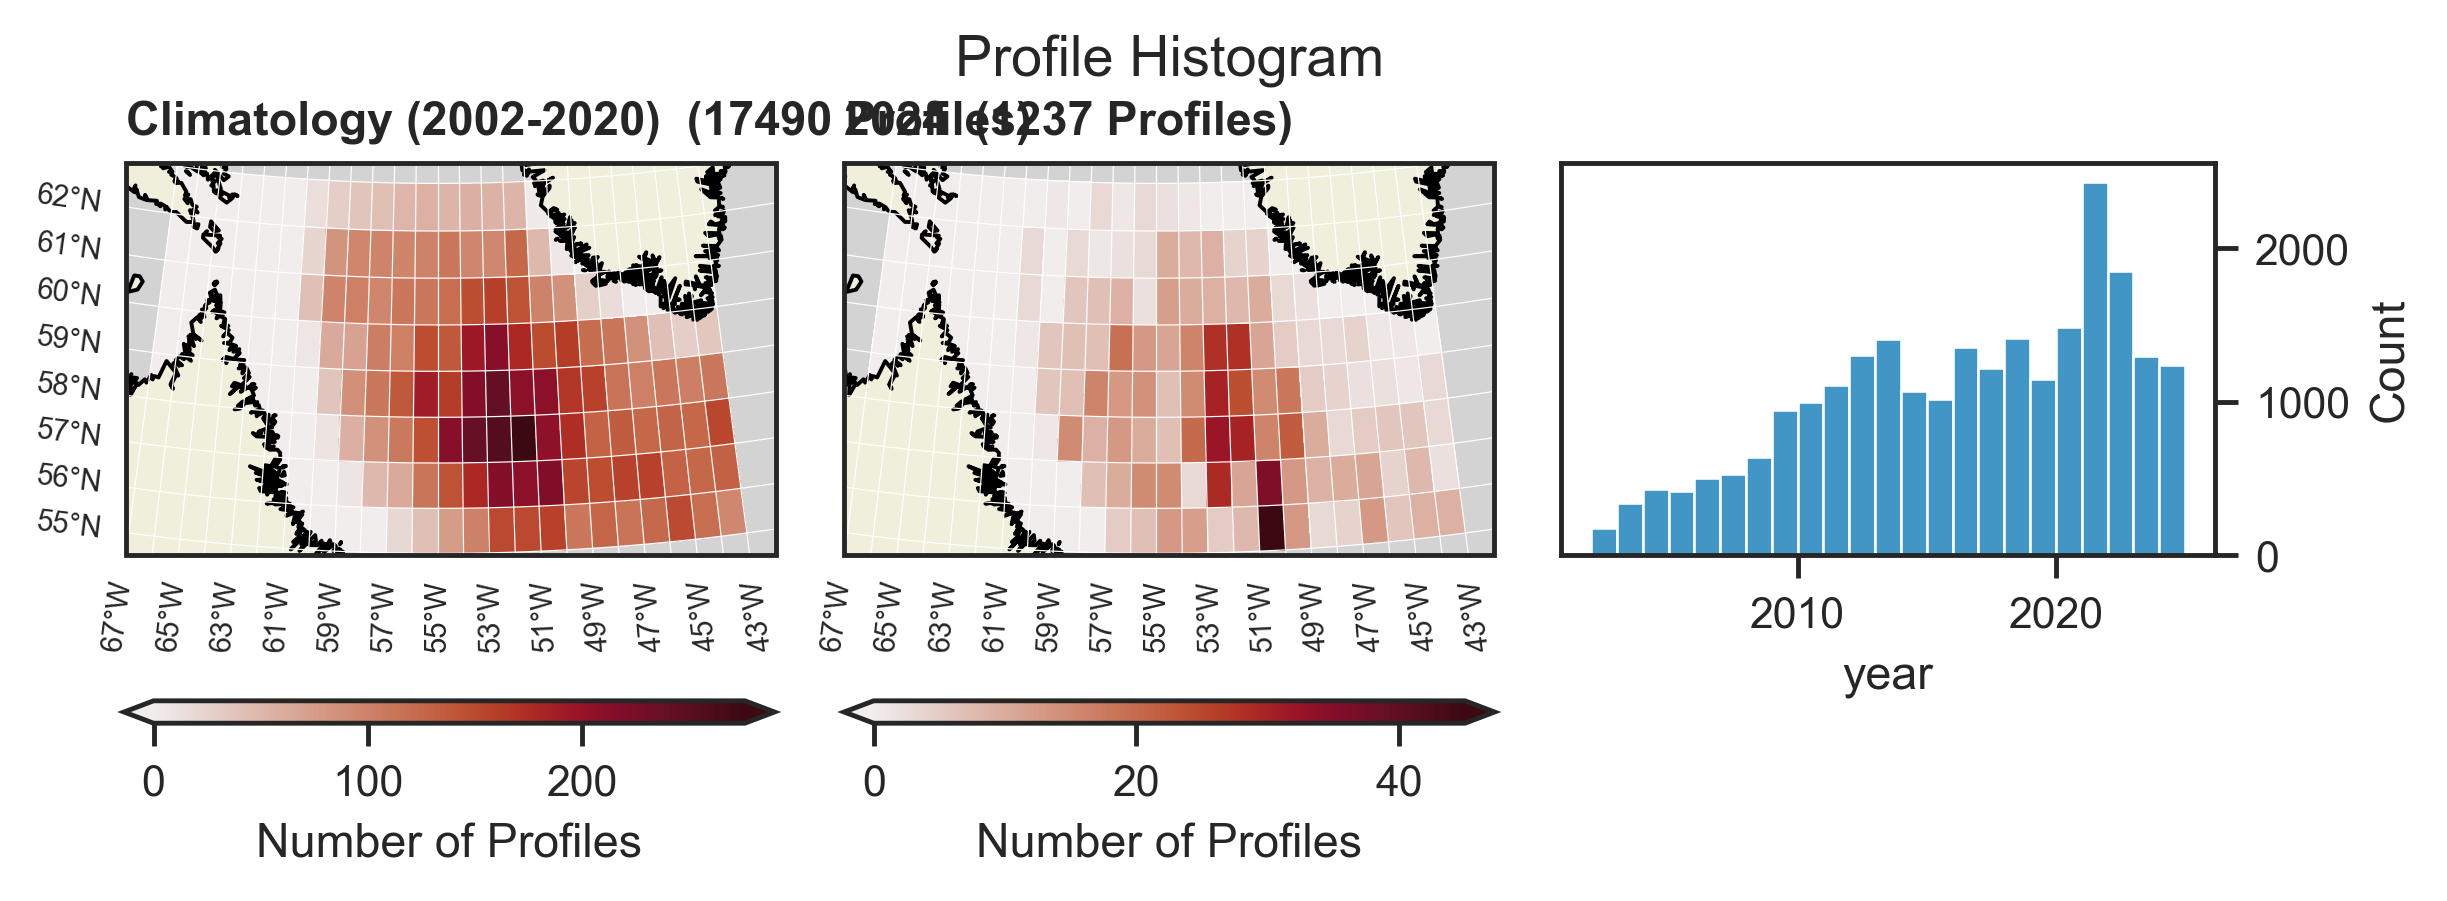
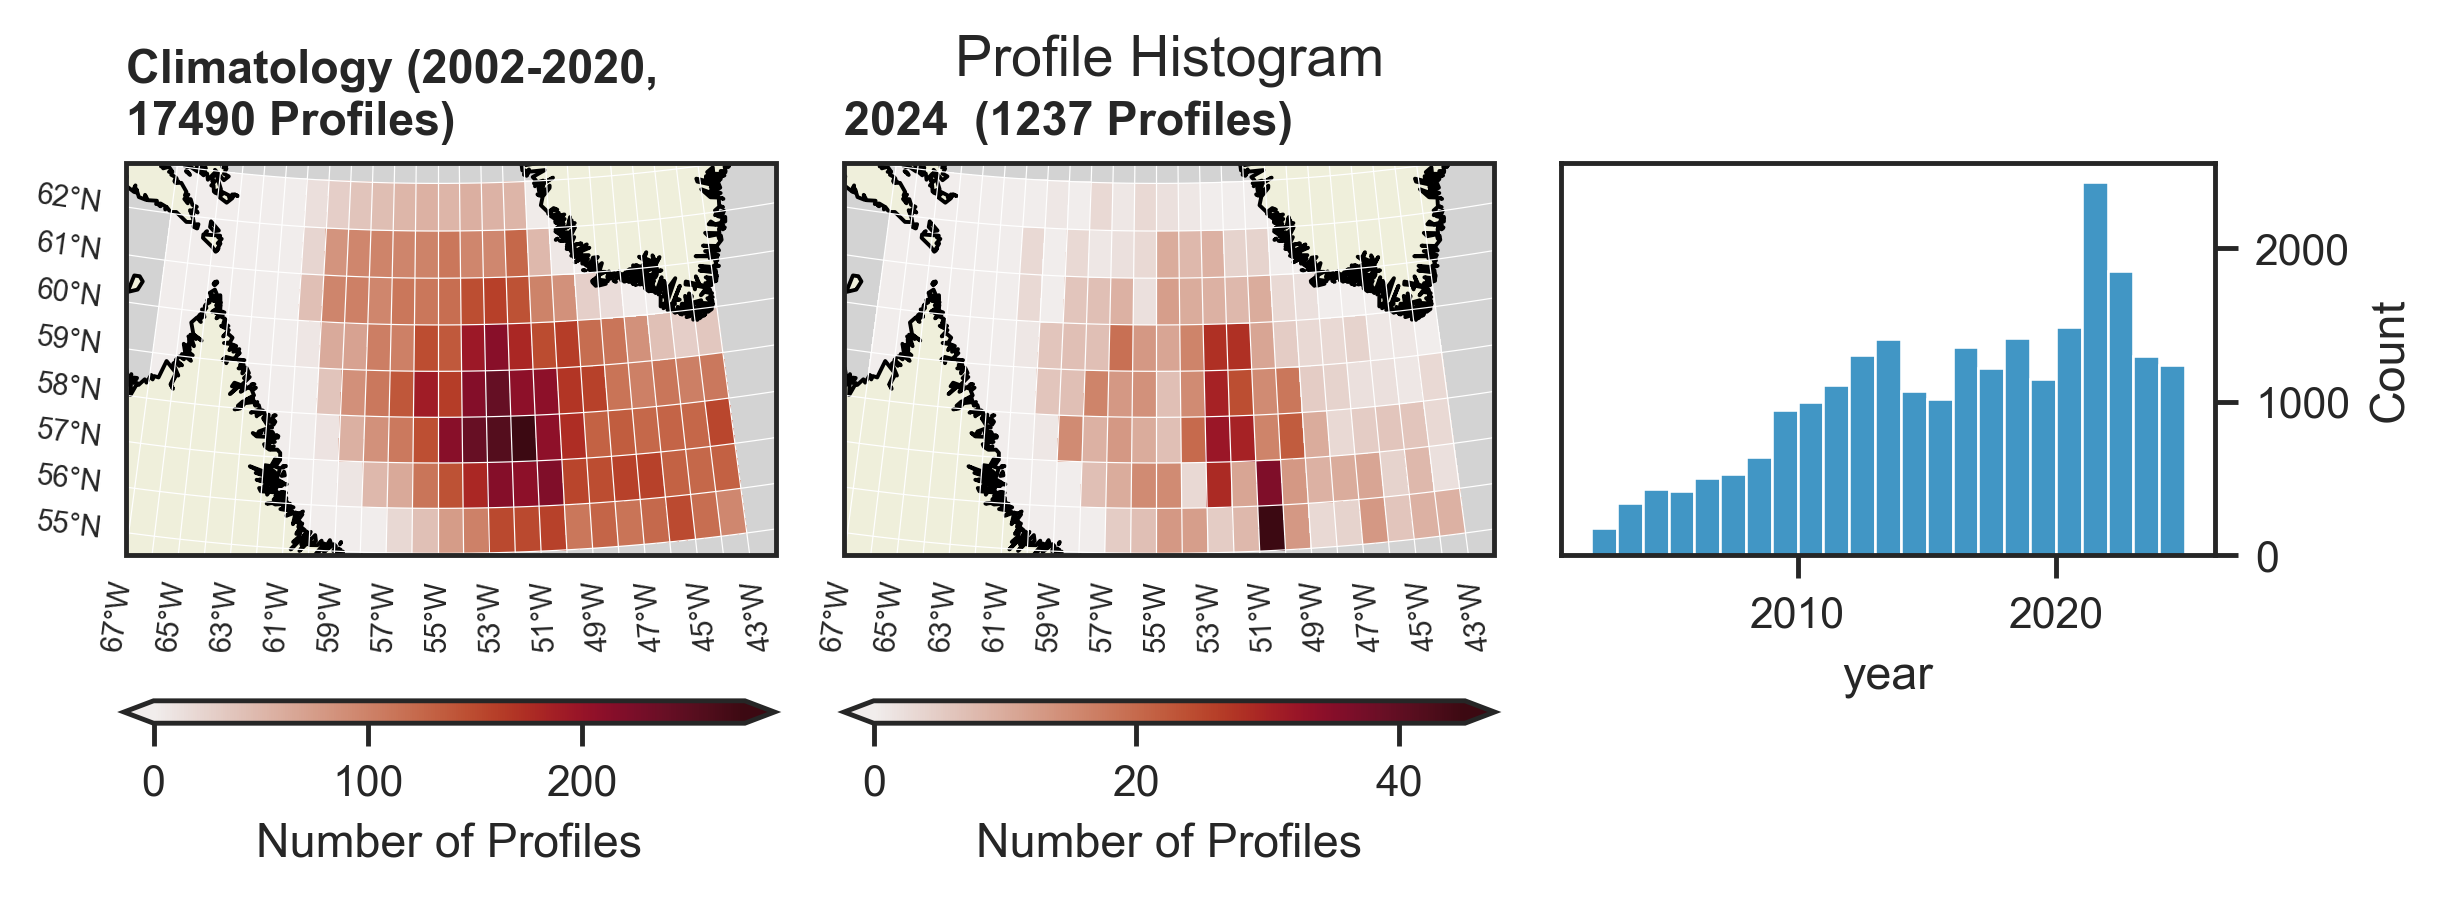
fix panel one title formatting

Changed region(s): [[0.0311, 0.0311, 0.4348, 0.1554]]

diff --git a/analysis/argoPhysics/gridded_data.py b/analysis/argoPhysics/gridded_data.py
@@ -344,8 +344,8 @@ for plot, ax in zip(['climatology', 'analysis_year'], axes):
         )
         grid = df.groupby(['latitude', 'longitude'])['variable'].count().unstack()
         min_year = ix.loc[index, 'year'].min()
-        title = f'Climatology ({min_year}-{clim_year})'
-        ax.set_title(f'{title}  ({sum(index)} Profiles)', loc='left', fontweight='bold')
+        title = f'Climatology ({min_year}-{clim_year}'
+        ax.set_title(f'{title},\n{sum(index)} Profiles)', loc='left', fontweight='bold')
         full = ax.pcolormesh(X, Y, grid, cmap=cmo.cm.amp, transform=transform)
         cbax = fig.add_axes([0.05, -0.15, 0.28, 0.04])
         cb = plt.colorbar(full, orientation='horizontal', extend='both', cax=cbax)
